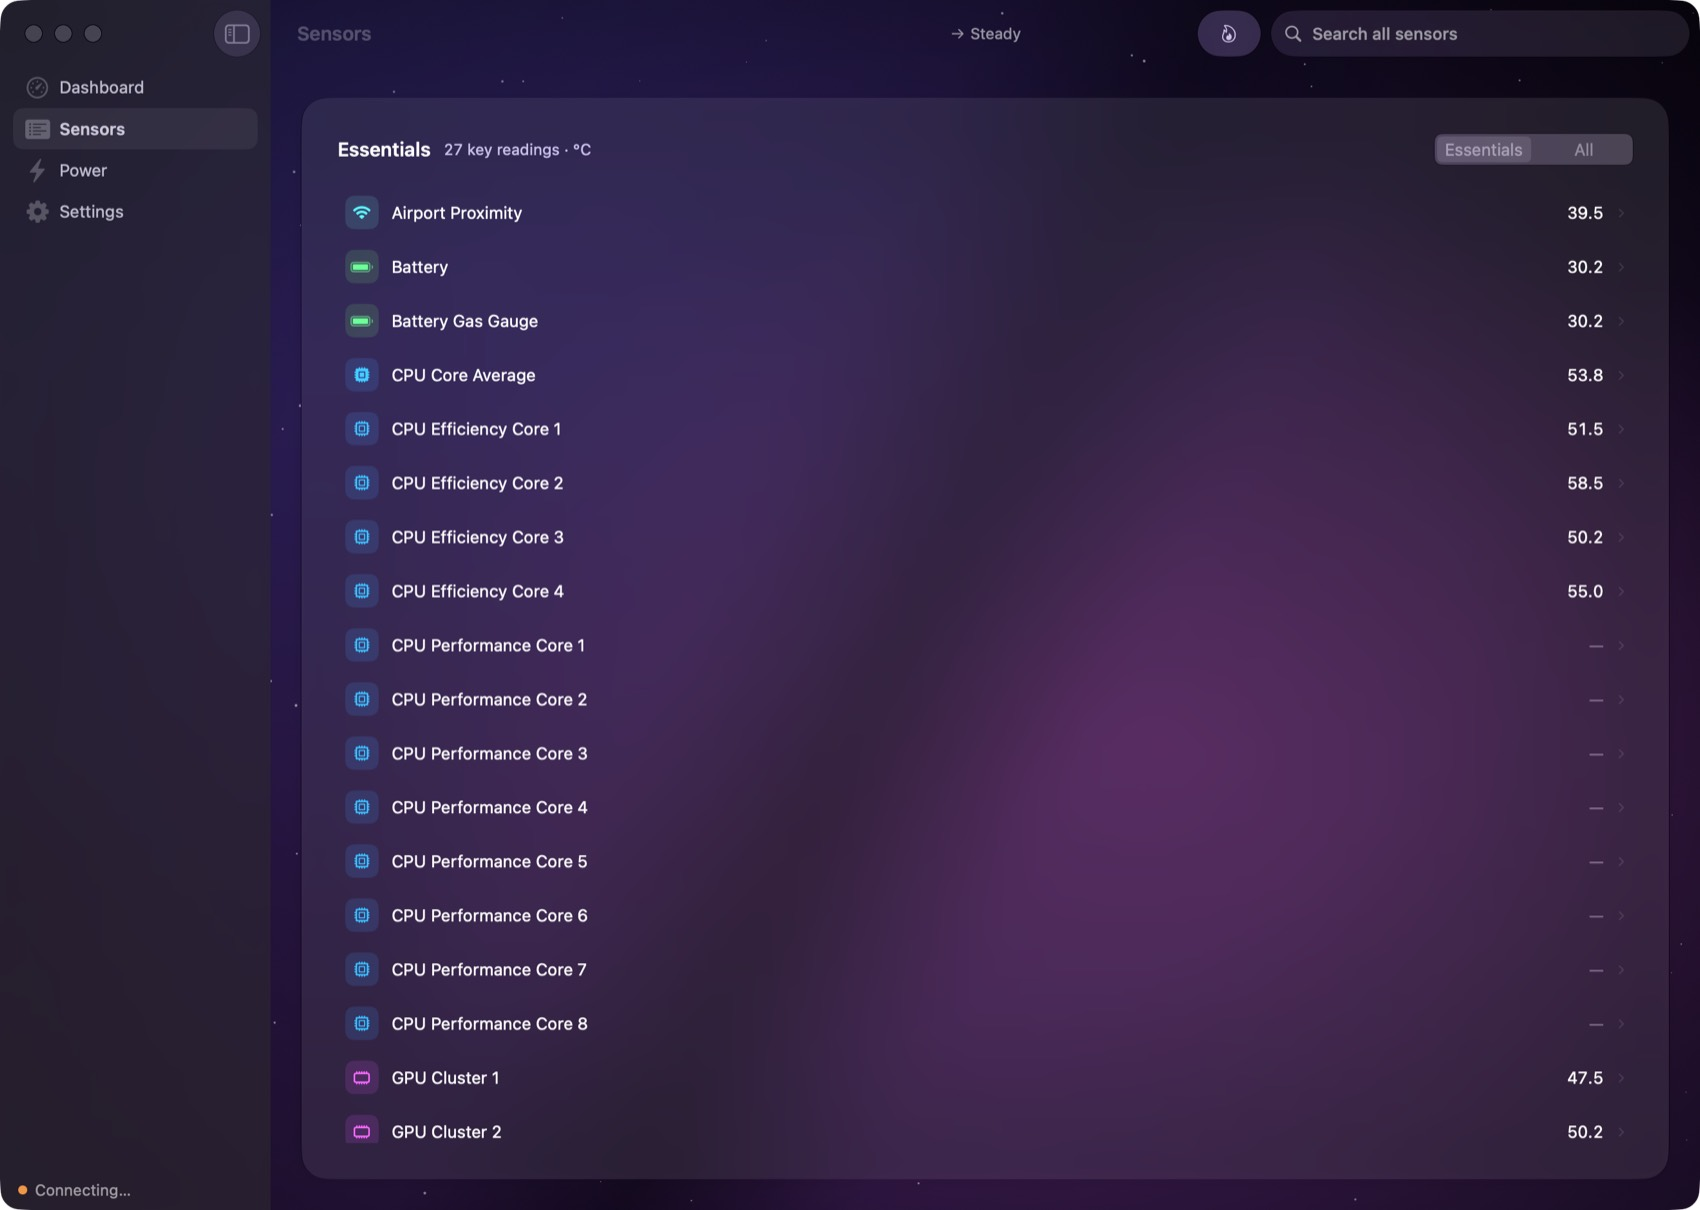
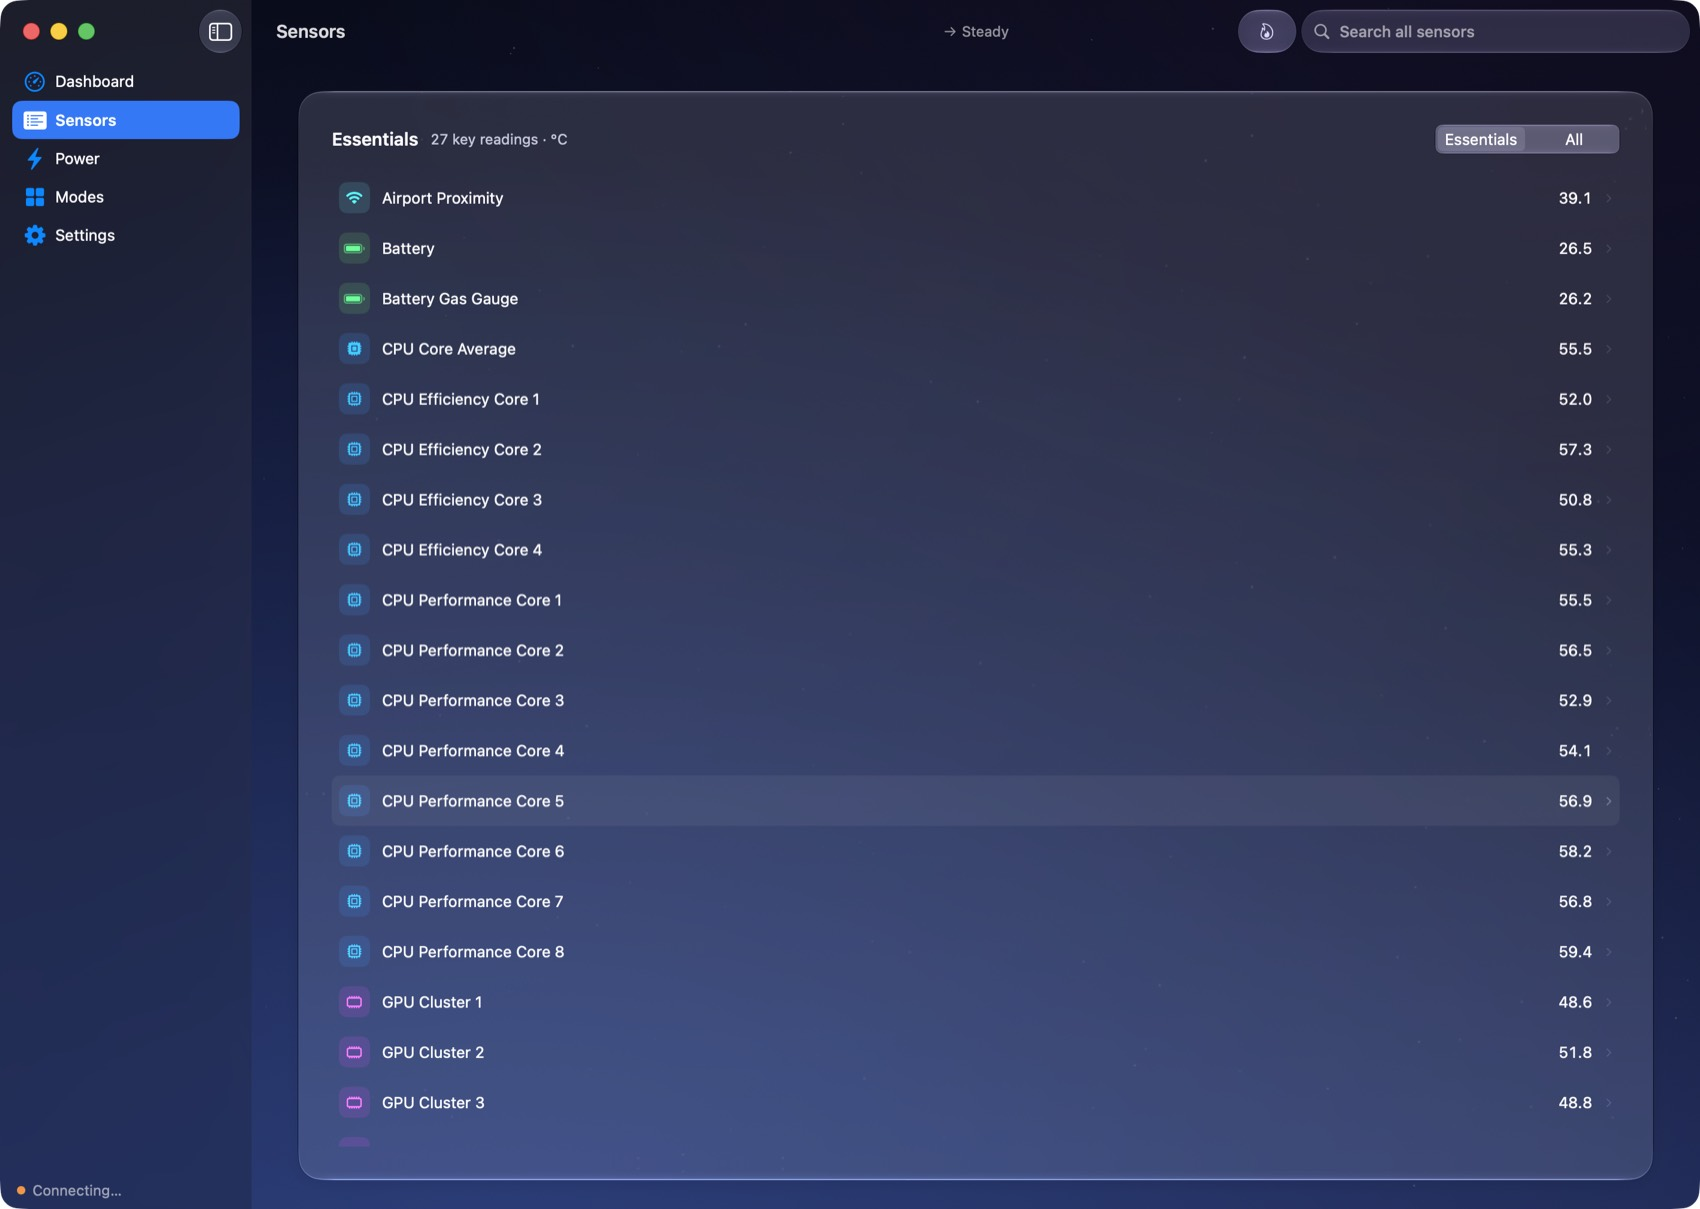
assets: screenshots from 1.2.1, and a Modes figure
Every shot showing the sidebar was taken before the Modes tab existed.
Recaptured Sensors, Settings and Power on 1.2.1, and added a Modes figure
so the feature the copy now sells is actually visible.

Captured under CPU load on purpose: idle performance cores are power
gated and report nothing, so an idle capture showed eight rows of
placeholder dashes. Under load every core reads.

The hero is deliberately NOT updated. A fresh Dashboard capture shows the
helper-install banner and 0 RPM fans on this machine, which is worse than
a slightly older image. It gets replaced once the helper is approved.

diff --git a/index.html b/index.html
@@ -355,7 +355,7 @@
 
   <figure data-reveal>
     <div class="shot" data-tilt>
-      <img src="assets/sensors.jpg" width="1700" height="1210" loading="lazy"
+      <img src="assets/sensors.jpg" width="1700" height="1209" loading="lazy"
            alt="The Sensors view: a dense, readable list of every thermal sensor with its current temperature, on glass panels over a deep violet backdrop.">
     </div>
     <figcaption>Every sensor your Mac exposes, searchable and pinnable, each with its own history.</figcaption>
@@ -382,14 +382,21 @@
   <p class="sub" data-reveal data-delay=".1">Real Liquid Glass on macOS 26, native materials before it. Six ambient backdrops if you want depth, a frost slider if you'd rather not, and a new Modes tab alongside Dashboard, Sensors, Settings and Power.</p>
   <figure data-reveal>
     <div class="shot" data-tilt>
-      <img src="assets/settings.jpg" width="1700" height="1210" loading="lazy"
+      <img src="assets/settings.jpg" width="1700" height="1209" loading="lazy"
            alt="AeroFlow settings showing the backdrop picker with six scenes: Aurora, Space, Winter, Nebula, Abyss and Graphite, alongside accent colour and glass frost controls.">
     </div>
     <figcaption>Six backdrops to pick from. Settings stays a native grouped form.</figcaption>
   </figure>
   <figure data-reveal>
     <div class="shot" data-tilt>
-      <img src="assets/power.jpg" width="1700" height="1210" loading="lazy"
+      <img src="assets/modes.jpg" width="1700" height="1209" loading="lazy"
+           alt="The Modes tab listing three custom modes: Gaming holding a fixed 70% off GPU Average, Rendering at a 55% minimum off CPU Performance, and Recording at a 20% minimum off the hottest sensor, each showing its live temperature.">
+    </div>
+    <figcaption>Your own modes, each watching the sensor you picked.</figcaption>
+  </figure>
+  <figure data-reveal>
+    <div class="shot" data-tilt>
+      <img src="assets/power.jpg" width="1700" height="1209" loading="lazy"
            alt="The Power view: system wattage, battery drain, and what the fans are costing in power.">
     </div>
     <figcaption>Power: what your cooling actually costs you.</figcaption>
